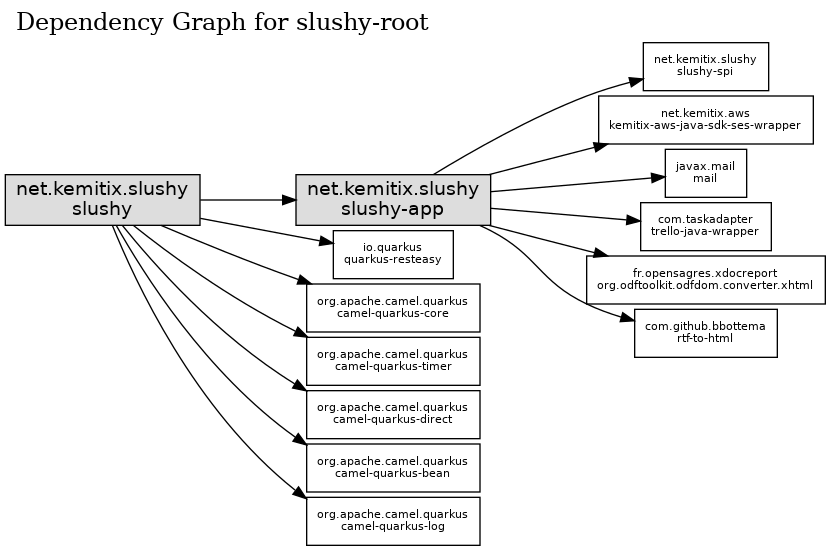
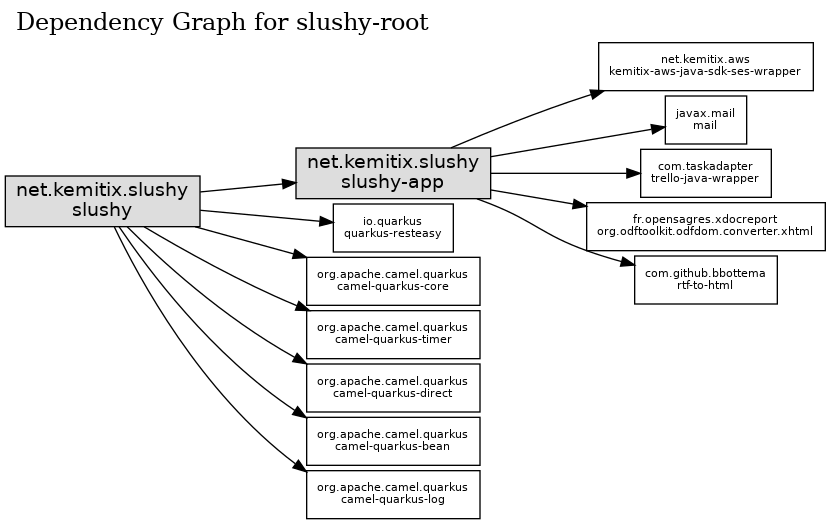
Automate confirmation when story is withdrawn (#43)
* Set version to 1.7.0-SNAPSHOT

Missed setting version for the 1.6.0 release.

* pom: remove old reference to slushy-spi module

* HoldConfig uses ListProcessConfig

* SlushyCardTest: update test

* withdraw: add routes

* {hold,reject}: normalise card mover route names

* inbox: add support for resting, even though default is 0

* withdrawn: add missing brace

* withdraw: add missing ApplicationScoped annotation

* Update diagram

* withdraw: Remove unused import

* withdraw: fix route id

* withdraw: fixtypo

* archiver: re-extract Slushy.Archive route

* inbox: extract ValidateAttachment route

* reformatting

* archiver: takes the SlushyCard header as body

diff --git a/slushy-app/src/main/java/net/kemitix/slushy/app/withdraw/WithdrawRoutes.java b/slushy-app/src/main/java/net/kemitix/slushy/app/withdraw/WithdrawRoutes.java
@@ -1,12 +1,10 @@
-package net.kemitix.slushy.app.reject;
+package net.kemitix.slushy.app.withdraw;
 
-import net.kemitix.slushy.app.CardMover;
 import net.kemitix.slushy.app.Comments;
 import net.kemitix.slushy.app.RestedFilter;
-import net.kemitix.slushy.app.SlushyCard;
+import net.kemitix.slushy.app.SlushyConfig;
 import net.kemitix.slushy.app.email.EmailService;
 import net.kemitix.slushy.app.trello.TrelloBoard;
-import net.kemitix.slushy.app.SlushyConfig;
 import org.apache.camel.builder.RouteBuilder;
 import org.apache.camel.builder.SimpleBuilder;
 import org.apache.camel.builder.ValueBuilder;
@@ -17,33 +15,34 @@ import javax.inject.Inject;
 import static org.apache.camel.builder.Builder.bean;
 
 @ApplicationScoped
-public class RejectRoutes
+public class WithdrawRoutes
         extends RouteBuilder {
 
     @Inject SlushyConfig slushyConfig;
-    @Inject RejectConfig rejectConfig;
+    @Inject WithdrawConfig withdrawConfig;
     @Inject TrelloBoard trelloBoard;
-    @Inject CardMover cardMover;
-    @Inject EmailService emailService;
-    @Inject SubmissionRejectedEmailCreator emailCreator;
     @Inject RestedFilter restedFilter;
+    @Inject WithdrawnEmailCreator emailCreator;
+    @Inject EmailService emailService;
     @Inject Comments comments;
 
     @Override
     public void configure() {
-        fromF("timer:reject?period=%s", rejectConfig.getScanPeriod())
-                .routeId("Slushy.Reject")
-                .setBody(exchange -> trelloBoard.getListCards(rejectConfig.getSourceList()))
+        fromF("timer:withdraw?period=%s", withdrawConfig.getScanPeriod())
+                .routeId("Slushy.Withdraw")
+
+                .setBody(exchange -> trelloBoard.getListCards(withdrawConfig.getSourceList()))
                 .split(body())
-                .convertBodyTo(SlushyCard.class)
-                .setHeader("SlushyRequiredAge", rejectConfig::getRequiredAgeHours)
+
+                .setHeader("SlushyRequiredAge", withdrawConfig::getRequiredAgeHours)
                 .filter(bean(restedFilter, "isRested(${body}, ${header.SlushyRequiredAge})"))
-                .setHeader("SlushyRoutingSlip", rejectConfig::getRoutingSlip)
+
+                .setHeader("SlushyRoutingSlip", withdrawConfig::getRoutingSlip)
                 .routingSlip(header("SlushyRoutingSlip"))
         ;
 
-        from("direct:Slushy.Reject.SendEmail")
-                .routeId("Slushy.Reject.SendEmail")
+        from("direct:Slushy.Withdraw.SendEmail")
+                .routeId("Slushy.Withdraw.SendEmail")
                 .setHeader("SlushyRecipient", submissionEmail())
                 .setHeader("SlushySender", slushyConfig::getSender)
                 .setHeader("SlushySubject", subject())
@@ -55,25 +54,18 @@ public class RejectRoutes
                         "${header.SlushySubject}, " +
                         "${header.SlushyBody}, " +
                         "${header.SlushyBodyHtml}" +
-                        ")")
+                        ")"
+                )
+
                 .setHeader("SlushyComment",
-                        () -> "Sent rejection notification to author")
+                        () -> "Sent withdrawn notification to author")
                 .bean(comments, "add(" +
                         "${header.SlushyCard}, " +
                         "${header.SlushyComment}" +
                         ")")
         ;
-
-        from("direct:Slushy.Reject.MoveToTargetList")
-                .routeId("Slushy.Reject.MoveToTargetList")
-                .setHeader("SlushyTargetList", rejectConfig::getTargetList)
-                .bean(cardMover, "move(" +
-                        "${header.SlushyCard}, " +
-                        "${header.SlushyTargetList}" +
-                        ")")
-        ;
-
     }
+
 
     private SimpleBuilder submissionEmail() {
         return simple("${header.SlushySubmission.email}");
@@ -96,4 +88,5 @@ public class RejectRoutes
                 "${header.SlushySubmission}" +
                 ")");
     }
+
 }

diff --git a/slushy-app/src/main/java/net/kemitix/slushy/app/withdraw/WithdrawnEmailCreator.java b/slushy-app/src/main/java/net/kemitix/slushy/app/withdraw/WithdrawnEmailCreator.java
@@ -1,0 +1,57 @@
+package net.kemitix.slushy.app.withdraw;
+
+import net.kemitix.slushy.app.Submission;
+import net.kemitix.slushy.app.email.BodyCreator;
+import net.kemitix.slushy.app.email.SubjectCreator;
+
+import javax.enterprise.context.ApplicationScoped;
+
+@ApplicationScoped
+public class WithdrawnEmailCreator
+        implements SubjectCreator<Submission>, BodyCreator<Submission> {
+
+    @Override
+    public String subject(Submission source) {
+        return String.format(
+                "Submission Withdrawn: %s by %s",
+                source.getTitle(),
+                source.getByline()
+        );
+    }
+
+    @Override
+    public String bodyText(Submission source) {
+        String template = "" +
+                "Dear %s,\n\n" +
+                "Thank you for having submitted your story, \"%s by %s\"\n\n." +
+                "We have withdrawn your story as requested.\n\n" +
+                "I hope you will consider submitting to us again.\n\n" +
+                "Yours,\n" +
+                "Paul Campbell - Editor\n" +
+                "Cossmass Infinities - https://www.cossmass.com/";
+        return String.format(template,
+                source.getByline(),
+                source.getTitle(),
+                source.getByline());
+    }
+
+    @Override
+    public String bodyHtml(Submission source) {
+        String template = "" +
+                "<html><head></head>\n" +
+                "<body>\n" +
+                "<p>Dear %s,</p>\n" +
+                "<p>Thank you for having submitted your story, \"<strong>%s by %s</strong>\".</p>" +
+                "<p>We have withdrawn your story as requested.</p>" +
+                "<p>I hope you will consider submitting to us again.</p>" +
+                "<p>Yours,<br/>\n" +
+                "Paul Campbell - Editor<br/>\n" +
+                "<strong><a href=\"https://www.cossmass.com/\">Cossmass Infinities</a></strong><p>\n" +
+                "</body></html>";
+        return String.format(template,
+                source.getByline(),
+                source.getTitle(),
+                source.getByline());
+    }
+
+}

diff --git a/slushy-app/src/main/java/net/kemitix/slushy/app/inbox/InboxRoutes.java b/slushy-app/src/main/java/net/kemitix/slushy/app/inbox/InboxRoutes.java
@@ -3,6 +3,7 @@
  import net.kemitix.slushy.app.AttachmentLoader;
  import net.kemitix.slushy.app.CardMover;
  import net.kemitix.slushy.app.Comments;
+ import net.kemitix.slushy.app.RestedFilter;
  import net.kemitix.slushy.app.email.EmailService;
  import net.kemitix.slushy.app.fileconversion.ConversionService;
  import net.kemitix.slushy.app.trello.TrelloBoard;
@@ -29,13 +30,19 @@ public class InboxRoutes
     @Inject EmailService emailService;
     @Inject SubmissionReceivedEmailCreator emailCreator;
     @Inject Comments comments;
+    @Inject RestedFilter restedFilter;
 
     @Override
     public void configure() {
         fromF("timer:inbox?period=%s", inboxConfig.getScanPeriod())
                 .routeId("Slushy.Inbox")
+
                 .setBody(exchange -> trelloBoard.getListCards(inboxConfig.getSourceList()))
                 .split(body())
+
+                .setHeader("SlushyRequiredAge", inboxConfig::getRequiredAgeHours)
+                .filter(bean(restedFilter, "isRested(${body}, ${header.SlushyRequiredAge})"))
+
                 .setHeader("SlushyRoutingSlip", inboxConfig::getRoutingSlip)
                 .routingSlip(header("SlushyRoutingSlip"))
         ;
@@ -45,6 +52,10 @@ public class InboxRoutes
                 .setHeader("SlushyCard", body())
                 .bean(submissionParser)
                 .setHeader("SlushySubmission", body())
+        ;
+
+        from("direct:Slushy.ValidateAttachment")
+                .routeId("Slushy.ValidateAttachment")
                 .choice()
                 .when(simple("${body.isValid}"))
                 .otherwise()

diff --git a/slushy-app/src/main/java/net/kemitix/slushy/app/hold/HoldRoutes.java b/slushy-app/src/main/java/net/kemitix/slushy/app/hold/HoldRoutes.java
@@ -32,7 +32,7 @@ public class HoldRoutes
     public void configure() {
         fromF("timer:hold?period=%s", holdConfig.getScanPeriod())
                 .routeId("Slushy.Hold")
-                .setBody(exchange -> trelloBoard.getListCards(holdConfig.getHoldName()))
+                .setBody(exchange -> trelloBoard.getListCards(holdConfig.getSourceList()))
                 .split(body())
                 .setHeader("SlushyRequiredAge", holdConfig::getRequiredAgeHours)
                 .filter(bean(restedFilter, "isRested(${body}, ${header.SlushyRequiredAge})"))
@@ -62,9 +62,9 @@ public class HoldRoutes
                         ")")
         ;
 
-        from("direct:Slushy.Hold.MoveToHeld")
-                .routeId("Slushy.Hold.MoveToHeld")
-                .setHeader("SlushyTargetList", holdConfig::getHeldName)
+        from("direct:Slushy.Hold.MoveToTargetList")
+                .routeId("Slushy.Hold.MoveToTargetList")
+                .setHeader("SlushyTargetList", holdConfig::getTargetList)
                 .bean(cardMover, "move(" +
                         "${header.SlushyCard}, " +
                         "${header.SlushyTargetList}" +

diff --git a/slushy-app/src/main/java/net/kemitix/slushy/app/archiver/ArchiverRoutes.java b/slushy-app/src/main/java/net/kemitix/slushy/app/archiver/ArchiverRoutes.java
@@ -27,8 +27,17 @@ public class ArchiverRoutes
                 .routeId("Slushy.Archiver")
                 .setBody(exchange -> trelloBoard.getListCards(archiverConfig.getSourceList()))
                 .split(body())
+
                 .setHeader("SlushyRequiredAge", archiverConfig::getRequiredAgeHours)
                 .filter(bean(restedFilter, "isRested(${body}, ${header.SlushyRequiredAge})"))
+
+                .setHeader("SlushyRoutingSlip", archiverConfig::getRoutingSlip)
+                .routingSlip(header("SlushyRoutingSlip"))
+        ;
+
+        from("direct:Slushy.Archive")
+                .routeId("Slushy.Archive")
+                .setBody(header("SlushyCard"))
                 .bean(archiver)
         ;
     }

diff --git a/slushy/src/main/java/net/kemitix/slushy/QuarkusWithdrawConfig.java b/slushy/src/main/java/net/kemitix/slushy/QuarkusWithdrawConfig.java
@@ -3,14 +3,13 @@ package net.kemitix.slushy;
 import io.quarkus.arc.config.ConfigProperties;
 import lombok.Getter;
 import lombok.Setter;
-import net.kemitix.slushy.app.hold.HoldConfig;
-
+import net.kemitix.slushy.app.withdraw.WithdrawConfig;
 
 @Setter
 @Getter
-@ConfigProperties(prefix = "slushy.hold")
-public class QuarkusHoldConfig
+@ConfigProperties(prefix = "slushy.withdraw")
+public class QuarkusWithdrawConfig
         extends AbstractQuarkusListProcessingConfig
-        implements HoldConfig {
+        implements WithdrawConfig {
 
 }

diff --git a/slushy-app/src/test/java/net/kemitix/slushy/app/SlushyCardTest.java b/slushy-app/src/test/java/net/kemitix/slushy/app/SlushyCardTest.java
@@ -22,8 +22,9 @@ public class SlushyCardTest
         SlushyCard slushyCard = SlushyCard.from(card, trello);
         //then
         assertThat((Card) slushyCard)
-                .isEqualToIgnoringGivenFields(card, "dueComplete");
-
+                .usingRecursiveComparison()
+                .ignoringFields("dueComplete")
+                .isEqualTo(card);
     }
 
     private Card getCard() {

diff --git a/slushy-app/src/main/java/net/kemitix/slushy/app/withdraw/WithdrawConfig.java b/slushy-app/src/main/java/net/kemitix/slushy/app/withdraw/WithdrawConfig.java
@@ -1,8 +1,8 @@
-package net.kemitix.slushy.app.hold;
+package net.kemitix.slushy.app.withdraw;
 
 import net.kemitix.slushy.app.ListProcessConfig;
 
-public interface HoldConfig
+public interface WithdrawConfig
         extends ListProcessConfig {
 
 }

diff --git a/slushy-app/src/main/java/net/kemitix/slushy/ConfigLogger.java b/slushy-app/src/main/java/net/kemitix/slushy/ConfigLogger.java
@@ -1,0 +1,2 @@
+package net.kemitix.slushy;public class ConfigLogger {
+}
